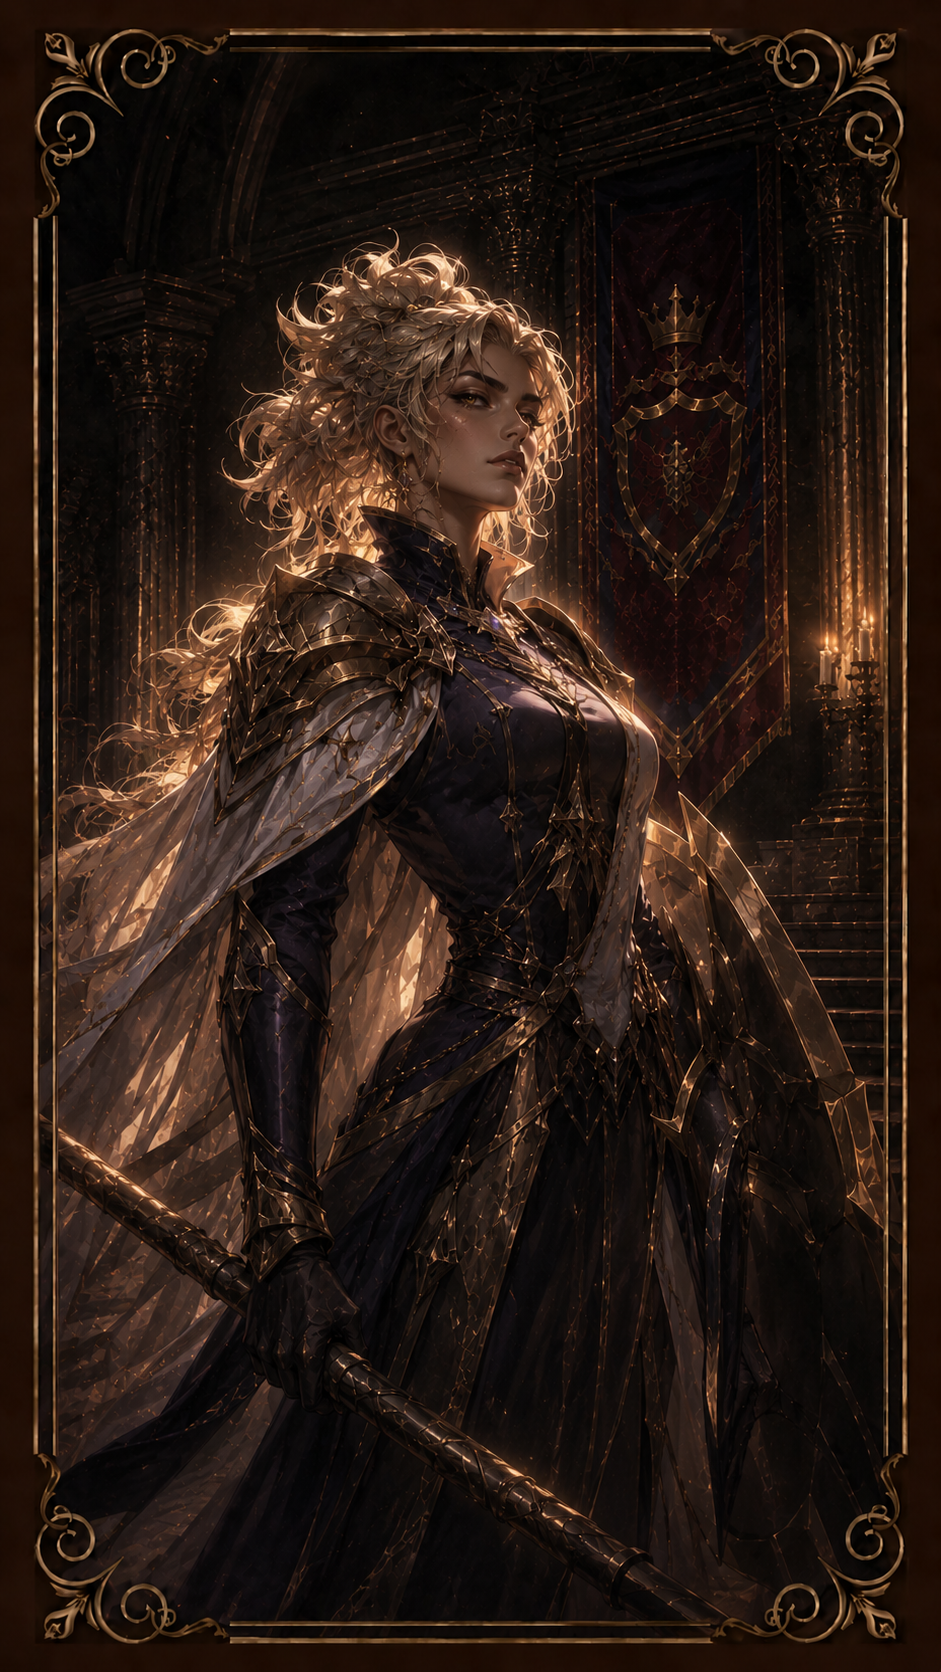
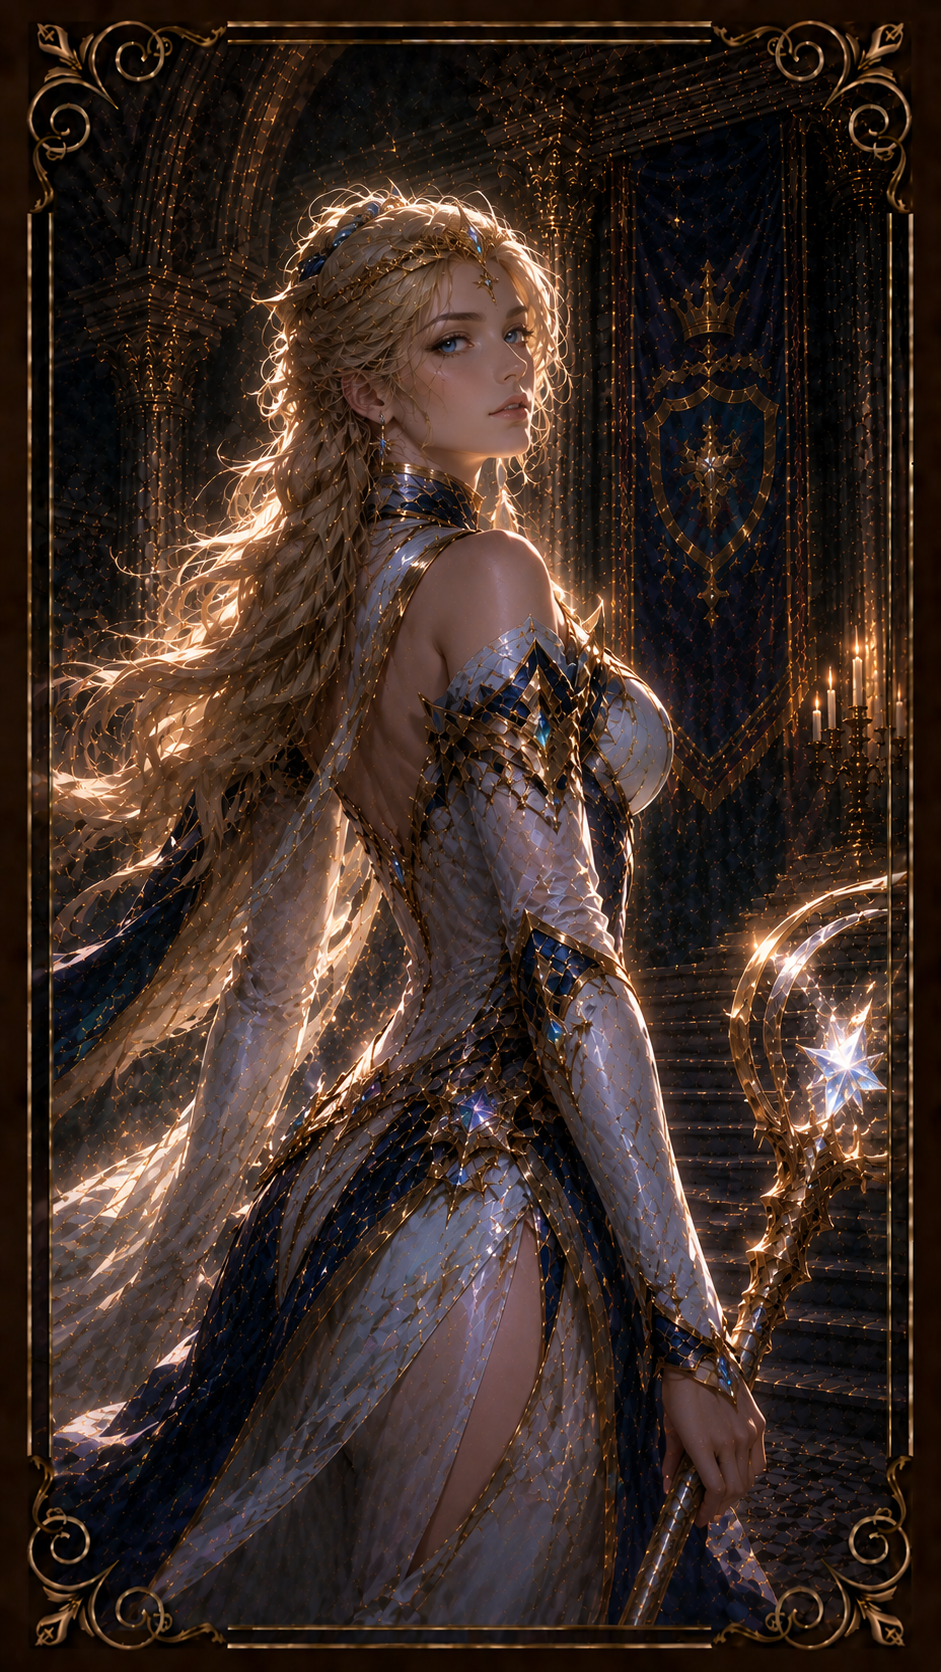
Move player name onto portrait, one-line comment into position box
Player name now sits bottom-right over the portrait photo with a
gradient scrim for legibility; the one-line comment moved up next to
the position badge in the zone between the template's divider lines.
Also adds newly dropped-in member/ portrait photos and normalizes
their filenames with a .png extension.

diff --git a/index.html b/index.html
@@ -225,28 +225,33 @@
   .showcase-pick.p1{ left:42.6%; width:14.95%; }
   .showcase-pick.p2{ left:59.82%; width:15.02%; }
   .showcase-pick.p3{ left:77.0%; width:15.08%; }
-  .showcase-portrait{
+  .showcase-portrait-box{
     position:absolute; left:9.3%; top:13.97%; width:26.9%; height:72.3%;
-    object-fit:cover; object-position:top center; border-radius:2px;
+    border-radius:2px; overflow:hidden;
   }
-  .showcase-name-zone{
+  .showcase-portrait-img{
+    position:absolute; inset:0; width:100%; height:100%;
+    object-fit:cover; object-position:top center; display:block;
+  }
+  .showcase-portrait-box::after{
+    content:""; position:absolute; left:0; right:0; bottom:0; height:40%;
+    background:linear-gradient(to top, rgba(0,0,0,.75), transparent); pointer-events:none;
+  }
+  .showcase-portrait-name{
+    position:absolute; right:7%; bottom:5%; z-index:1; max-width:88%;
+    font-family:var(--font-display); font-weight:700; letter-spacing:.02em;
+    color:var(--accent-strong); text-shadow:0 2px 8px rgba(0,0,0,.85);
+    white-space:nowrap; overflow:hidden; text-overflow:ellipsis; text-align:right;
+    font-size:14px; font-size:1.7cqw;
+  }
+  .showcase-meta-zone{
     position:absolute; left:36.3%; right:1.7%; top:62%; height:22%;
     display:flex; flex-direction:column; justify-content:center; gap:8px; padding:0 1.5%;
   }
-  .showcase-name{
-    font-family:var(--font-display); font-weight:700; letter-spacing:.02em;
-    color:var(--accent-strong); text-shadow:0 2px 10px rgba(0,0,0,.7);
-    white-space:nowrap; overflow:hidden; text-overflow:ellipsis;
-    font-size:20px; font-size:2.6cqw;
-  }
-  .showcase-name-zone .badge-pos{ align-self:flex-start; }
-  .showcase-desc-zone{
-    position:absolute; left:36.3%; right:1.7%; top:85.3%; height:11%;
-    display:flex; align-items:center; padding:0 1.5%;
-  }
+  .showcase-meta-zone .badge-pos{ align-self:flex-start; }
   .showcase-desc{
     color:var(--text-dim); font-style:italic; letter-spacing:.01em;
-    overflow:hidden; display:-webkit-box; -webkit-line-clamp:2; line-clamp:2; -webkit-box-orient:vertical;
+    overflow:hidden; display:-webkit-box; -webkit-line-clamp:3; line-clamp:3; -webkit-box-orient:vertical;
     font-size:12px; font-size:1.45cqw;
   }
   .showcase-desc::before{ content:"\201C"; color:var(--accent); margin-right:2px; font-style:normal; }
@@ -455,12 +460,15 @@
     '</div>';
   }
 
-  /* shows member/<선수이름>.png in the showcase template's portrait frame when a file matches */
+  /* portrait frame: shows member/<선수이름>.png when a file matches, with the player's name captioned bottom-right */
   function showcasePortraitHtml(name){
     var n = String(name||"").trim();
-    if(!n) return "";
+    if(!n) return '<div class="showcase-portrait-box"></div>';
     var src = "member/"+encodeURIComponent(n)+".png";
-    return '<img class="showcase-portrait" src="'+src+'" alt="" loading="lazy" onerror="this.remove();">';
+    return '<div class="showcase-portrait-box">'+
+      '<img class="showcase-portrait-img" src="'+src+'" alt="" loading="lazy" onerror="this.remove();">'+
+      '<span class="showcase-portrait-name">'+escapeHtml(n)+'</span>'+
+    '</div>';
   }
 
   /* fills one of the three MOST PICK squares in the showcase template */
@@ -984,11 +992,8 @@
         '<div class="showcase-card">'+
           showcasePortraitHtml(player&&player.name)+
           showcasePickHtml(picks[0],"p1")+showcasePickHtml(picks[1],"p2")+showcasePickHtml(picks[2],"p3")+
-          '<div class="showcase-name-zone">'+
-            '<span class="showcase-name">'+escapeHtml(player?player.name:"")+'</span>'+
+          '<div class="showcase-meta-zone">'+
             (player&&player.position?'<span class="badge-pos">'+escapeHtml(player.position)+'</span>':'')+
-          '</div>'+
-          '<div class="showcase-desc-zone">'+
             '<span class="showcase-desc'+(desc?"":" empty")+'">'+escapeHtml(desc)+'</span>'+
           '</div>'+
         '</div>'+
